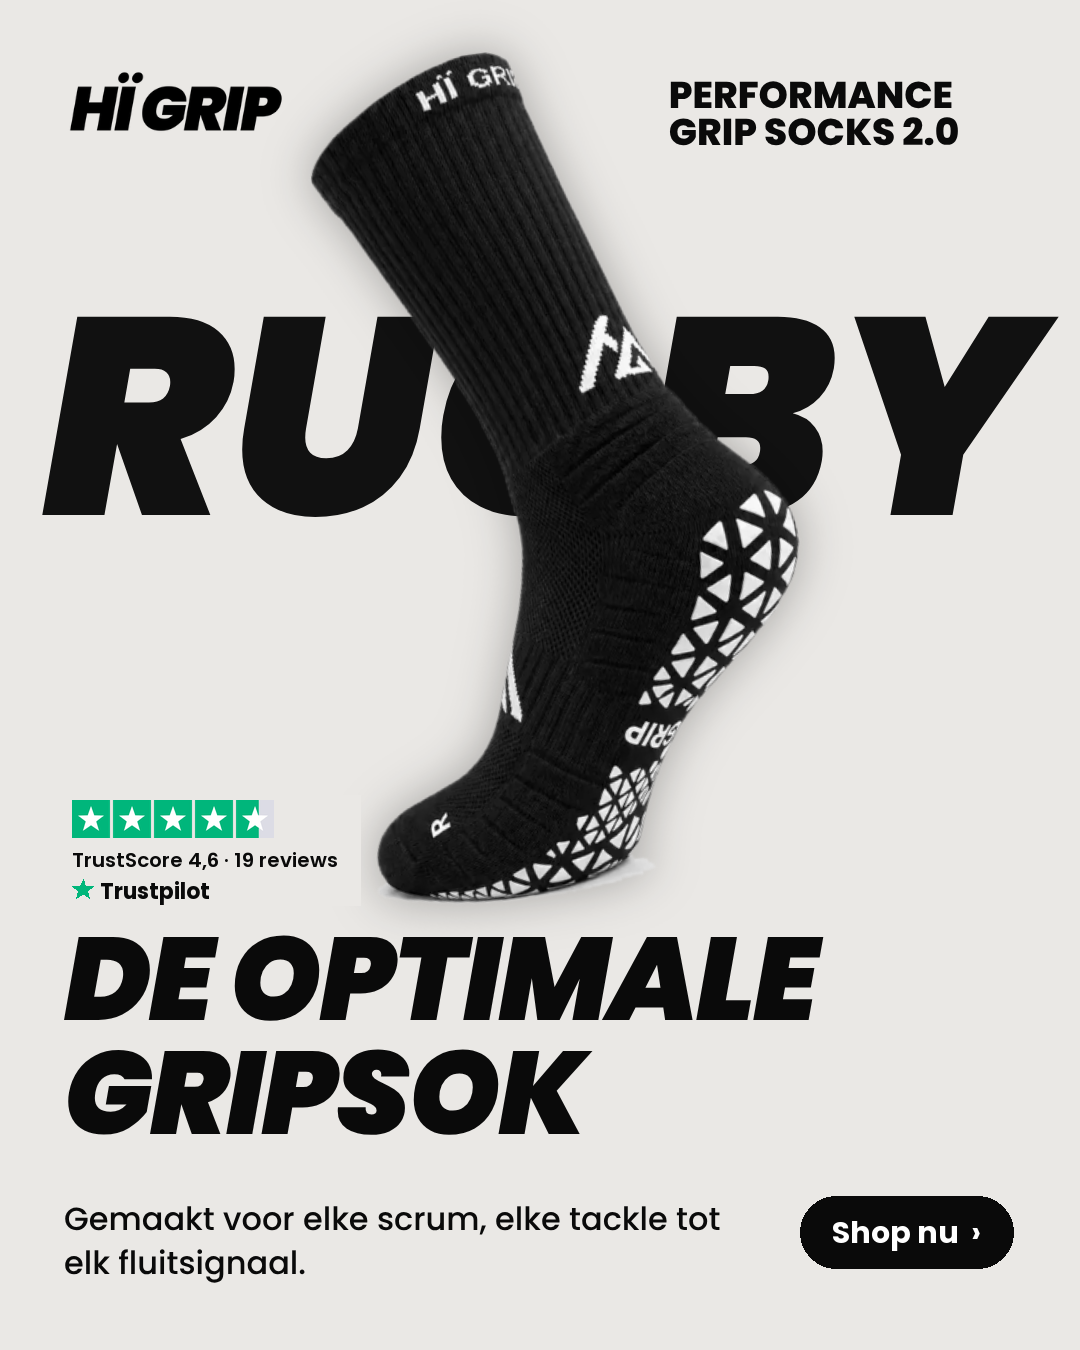
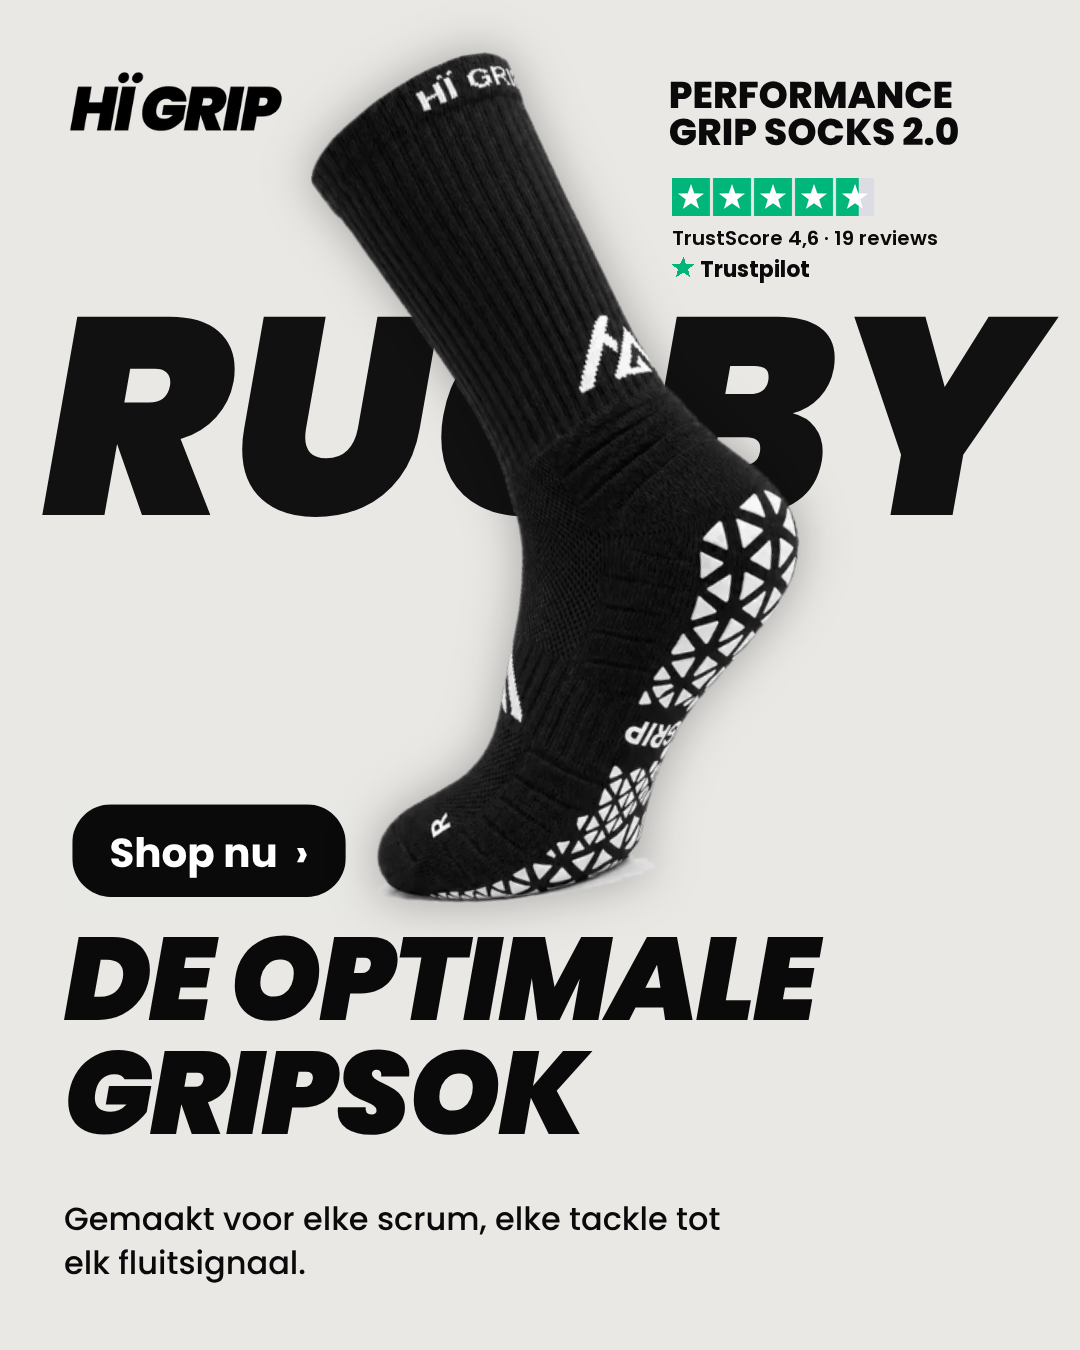
research: rugby-mockups Trustpilot, knop op oorspronkelijke plek

Changed region(s): [[0.0611, 0.5911, 0.3361, 0.6844], [0.7333, 0.8711, 0.9472, 0.9644], [0.6111, 0.1244, 0.8556, 0.2178]]

diff --git a/02_Dashboard/2026-10-27-review-rugby-ads-trustpilot.md b/02_Dashboard/2026-10-27-review-rugby-ads-trustpilot.md
@@ -46,7 +46,7 @@ In de vorige versie verschilde per paar alleen de kop en één regel. In de Canv
 - **Marge 4B:** de lijst loopt tot ca. 20 px van de onderrand.
 
 ### Trustpilot: waar en onder welke voorwaarden
-- **Plek:** in beide varianten gelijk, op de plek van de rode knop, direct boven de kop. Zo ondersteunt de score de claim ("4,6 op Trustpilot" naast "de optimale gripsok") en staat hij dicht bij de echte Meta-knop onder de ad. CTA naar rechtsonder (A) of onder de lijst (B). Mockups: `05_Social_Agent/Visuele Productie/Ads AB-test features vs beste/review-2026-10-26/`.
+- **Plek:** rechtsboven onder "PERFORMANCE GRIP SOCKS 2.0", op exact dezelfde coördinaten in A en B (x 672, y 178 op 1080 × 1350). Daar is in beide varianten ruimte, het valt in de eerste blik (logo → productnaam → score) en "Shop nu" kan op zijn oorspronkelijke plek blijven, alleen zwart in plaats van rood. Een eerdere mockup met de score boven de kop verplaatste de knop, en in A en B naar verschillende plekken; die is vervangen. Mockups: `05_Social_Agent/Visuele Productie/Ads AB-test features vs beste/review-2026-10-26/`.
 - **Niet in één variant:** dan meet de test sociaal bewijs in plaats van de boodschap. Een aparte test "met of zonder Trustpilot" kan daarna.
 - **Regels Trustpilot (Legal Brand Guidelines, feb 2023):** gebruik in advertenties alleen met een betaald abonnement; altijd naam en logo van Trustpilot; het woord "TrustScore" naast het getal; aantal reviews of datum erbij; sterren en logo niet aanpassen. Een TrustScore van 4,6 toont 4,5 sterren, dus de aangeleverde sterrenbalk klopt.
 - **Risico:** 19 reviews is weinig. Eerlijk vermelden ("19 reviews") voorkomt een misleidende indruk; het aantal groeit vanzelf mee in latere ads.
